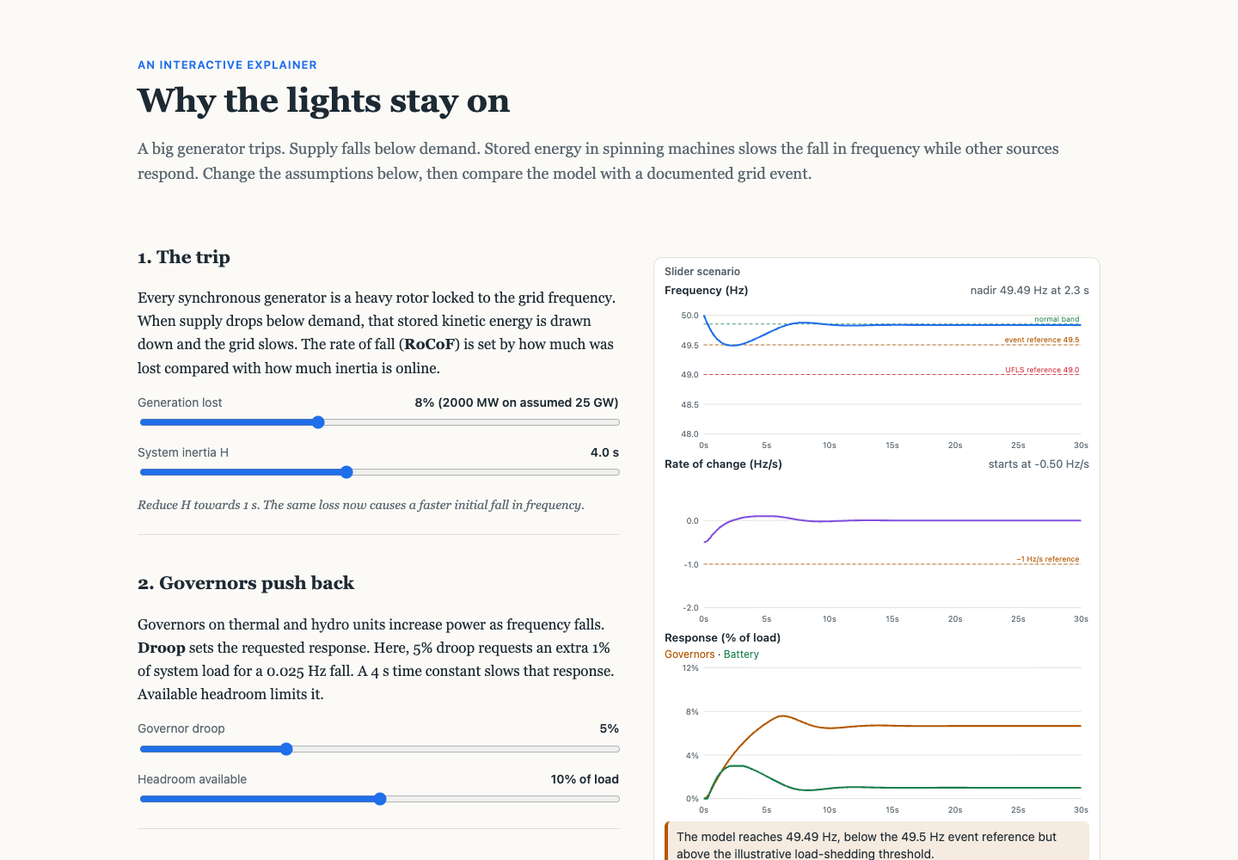
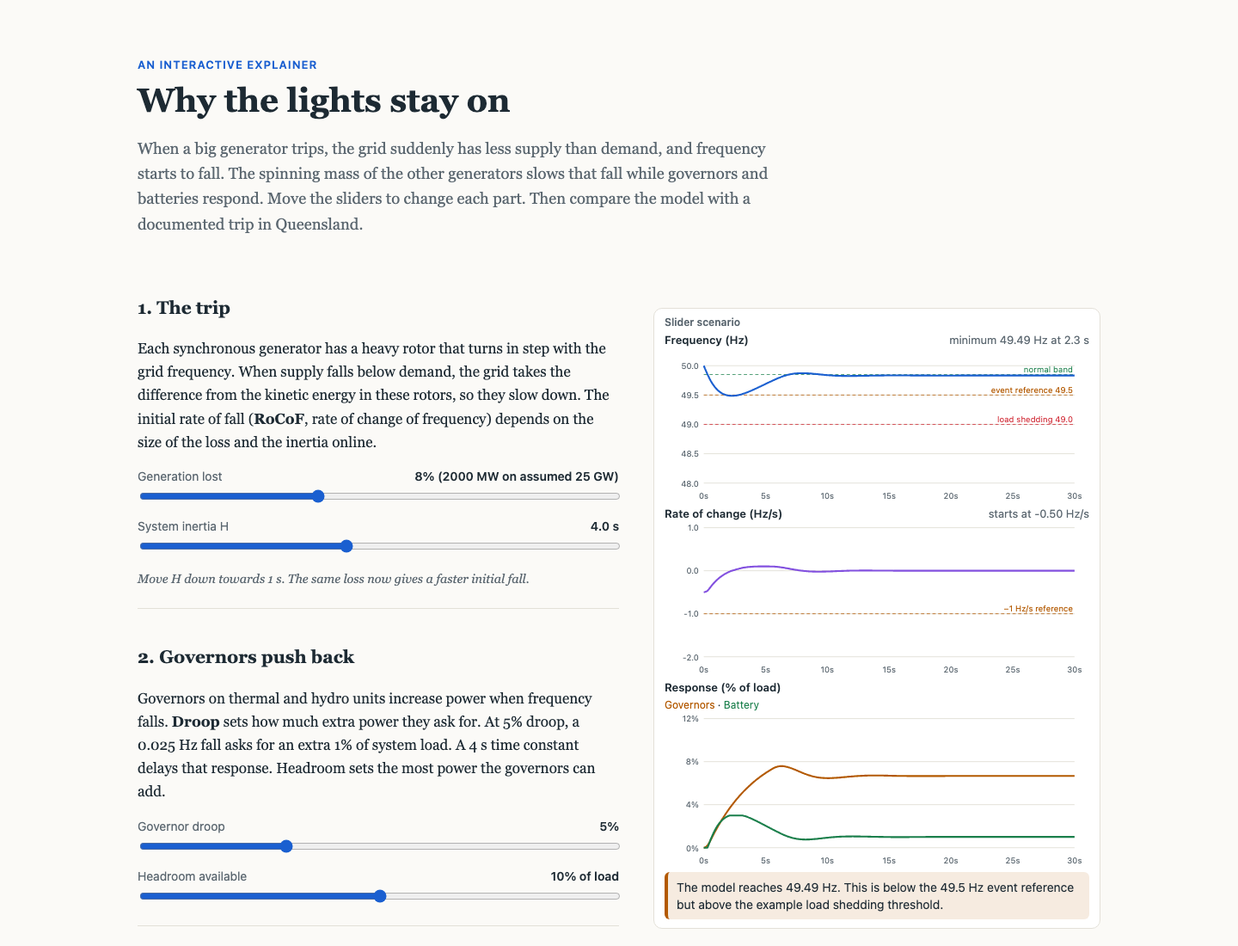
Rewrite README and page copy in plain technical English
- Rewrite the explainer text, verdicts, chart labels and meta
  description in short, active sentences with no dashes. Sourced values
  and the AEMO citation are unchanged.
- Restructure the README: summary, hero image, quick start, the Kogan
  Creek comparison, model, limits, tests and code layout.
- Refresh the hero and comparison images from the current page.
- Move dated session checks and a local network note out of the README
  and research note; they were for the owner, not readers.
- Add a package description.

diff --git a/index.html b/index.html
@@ -5,14 +5,14 @@
   <link rel="icon" href="data:," />
   <meta name="viewport" content="width=device-width, initial-scale=1" />
   <title>Why the lights stay on</title>
-  <meta name="description" content="What happens to grid frequency when a big generator trips? Drag the sliders and find out." />
+  <meta name="description" content="Move the sliders to see how inertia, governors and batteries hold up grid frequency after a big generator trips. Includes a sourced comparison with the 2019 Kogan Creek trip." />
   <link rel="stylesheet" href="/src/style.css" />
 </head>
 <body>
   <header class="hero">
     <p class="kicker">An interactive explainer</p>
     <h1>Why the lights stay on</h1>
-    <p class="lede">A big generator trips. Supply falls below demand. Stored energy in spinning machines slows the fall in frequency while other sources respond. Change the assumptions below, then compare the model with a documented grid event.</p>
+    <p class="lede">When a big generator trips, the grid suddenly has less supply than demand, and frequency starts to fall. The spinning mass of the other generators slows that fall while governors and batteries respond. Move the sliders to change each part. Then compare the model with a documented trip in Queensland.</p>
   </header>
 
   <main>
@@ -20,26 +20,25 @@
   <div class="steps">
     <section class="step">
       <h2>1. The trip</h2>
-      <p>Every synchronous generator is a heavy rotor locked to the grid frequency. When supply drops below demand, that stored kinetic energy is drawn down and the grid slows. The rate of fall (<b>RoCoF</b>) is set by how much was lost compared with how much inertia is online.</p>
+      <p>Each synchronous generator has a heavy rotor that turns in step with the grid frequency. When supply falls below demand, the grid takes the difference from the kinetic energy in these rotors, so they slow down. The initial rate of fall (<b>RoCoF</b>, rate of change of frequency) depends on the size of the loss and the inertia online.</p>
       <label class="ctl" for="lossPu"><span>Generation lost <output data-for="lossPu"></output></span><input id="lossPu" type="range" min="1" max="20" step="0.5" value="8" /></label>
       <label class="ctl" for="H"><span>System inertia H <output data-for="H"></output></span><input id="H" type="range" min="1" max="8" step="0.1" value="4" /></label>
-      <p class="hint">Reduce H towards 1 s. The same loss now causes a faster initial fall in frequency.</p>
-  </section>
+      <p class="hint">Move H down towards 1 s. The same loss now gives a faster initial fall.</p>
+    </section>
 
     <section class="step">
       <h2>2. Governors push back</h2>
-      <p>Governors on thermal and hydro units increase power as frequency falls. <b>Droop</b> sets the requested response. Here, 5% droop requests an extra 1% of system load for a 0.025 Hz fall. A 4 s time constant slows that response. Available headroom limits it.</p>
+      <p>Governors on thermal and hydro units increase power when frequency falls. <b>Droop</b> sets how much extra power they ask for. At 5% droop, a 0.025 Hz fall asks for an extra 1% of system load. A 4 s time constant delays that response. Headroom sets the most power the governors can add.</p>
       <label class="ctl" for="droop"><span>Governor droop <output data-for="droop"></output></span><input id="droop" type="range" min="2" max="12" step="0.5" value="5" /></label>
       <label class="ctl" for="governorHeadroom"><span>Headroom available <output data-for="governorHeadroom"></output></span><input id="governorHeadroom" type="range" min="0" max="20" step="1" value="10" /></label>
-  </section>
+    </section>
 
     <section class="step">
-      <h2>3. Batteries, fast</h2>
-      <p>A battery can respond faster than a turbine. Here, it uses delayed frequency feedback and reaches full output at a 0.5 Hz deviation. Reduce the delay or increase the power limit to see how the lowest frequency changes. “Battery size” means power, not stored energy.</p>
+      <h2>3. Batteries act fast</h2>
+      <p>A battery can respond faster than a turbine. In this model, the battery measures frequency after a short delay. Its output grows with the fall and reaches full power at a 0.5 Hz deviation. Make the delay shorter or the battery larger, then watch the lowest frequency change. “Battery size” is a power limit, not stored energy.</p>
       <label class="ctl" for="batterySize"><span>Battery size <output data-for="batterySize"></output></span><input id="batterySize" type="range" min="0" max="10" step="0.5" value="3" /></label>
       <label class="ctl" for="batteryDelay"><span>Response delay <output data-for="batteryDelay"></output></span><input id="batteryDelay" type="range" min="0.05" max="3" step="0.05" value="0.3" /></label>
-  </section>
-
+    </section>
   </div>
 
   <aside class="dash">
@@ -57,14 +56,14 @@
     <div class="event-intro">
       <p class="kicker">Evidence and assumptions</p>
       <h2 id="event-heading">4. One real trip, not a replay</h2>
-      <p>On 9 October 2019, Kogan Creek in Queensland tripped from <b>748 MW</b>. AEMO reports that frequency fell to <b>49.61 Hz</b>. The South Australia virtual power plant detected the fall and injected power to help recovery.</p>
-      <p><a id="event-source" href="https://arena.gov.au/assets/2020/03/aemo-virtual-power-plant-demonstration-knowledge-sharing-report-1.pdf#page=7">Source: AEMO, Virtual Power Plant Demonstration, report #1, section 2.1.1, page 7 (PDF)</a>.</p>
-      <p>For a fixed comparison, use the same 748 MW loss on an <b>assumed 25 GW system base</b>: 2.992% of load. Keep H = 4 s, droop = 5%, governor time constant = 4 s, headroom = 10%, and load damping = 1. Start at 50 Hz. Omit the battery because the report does not give an aggregate battery capacity for this model.</p>
+      <p>On 9 October 2019, the largest generating unit in the National Electricity Market tripped from <b>748 MW</b>. The unit is at Kogan Creek in Queensland. AEMO reports that frequency fell to <b>49.61 Hz</b>. The South Australia virtual power plant (VPP) detected the fall and injected power to help recovery.</p>
+      <p><a id="event-source" href="https://arena.gov.au/assets/2020/03/aemo-virtual-power-plant-demonstration-knowledge-sharing-report-1.pdf#page=7">Source: AEMO, Virtual Power Plant Demonstration, knowledge sharing report #1, section 2.1.1, page 7 (PDF)</a>.</p>
+      <p>The fixed comparison below uses the same 748 MW loss on an <b>assumed 25 GW system base</b>. That is 2.992% of load. The other inputs are assumptions too: H = 4 s, droop 5%, governor time constant 4 s, headroom 10% and load damping 1. The model starts at 50 Hz. It has no battery, because the report does not give a total battery power for this model.</p>
     </div>
     <div class="event-panel">
       <figure class="event-figure">
         <svg id="chart-event" role="img" aria-label="Fixed model frequency trace with a reference line at AEMO’s reported 49.61 Hz minimum"></svg>
-        <figcaption>Blue: fixed model trace. Dashed: reported event minimum, not a measured time series. This comparison does not change with the sliders.</figcaption>
+        <figcaption>Blue line: the fixed model trace. Dashed line: the minimum that AEMO reports. It is one value, not a measured time series. The sliders do not change this chart.</figcaption>
       </figure>
       <dl class="event-results">
         <div><dt>Reported event minimum</dt><dd>49.61 Hz</dd></div>
@@ -76,19 +75,19 @@
     <div class="event-notes">
       <h3>Where the model differs</h3>
       <ul>
-        <li><b>One frequency.</b> The model has no transmission network, regional oscillations, voltage, or separate machines. It cannot reproduce local measurements or network constraints.</li>
-        <li><b>Assumed response.</b> Real units have different inertia, governor settings, deadbands, and available reserves. The system base and response constants above are not measured event inputs.</li>
-        <li><b>No event battery response.</b> AEMO documents a VPP response. This comparison omits it. Adding a guessed battery size would not establish its share of the system response.</li>
-        <li><b>No restoration or protection action.</b> The model has no secondary frequency control, battery energy limit, or load-shedding logic. Crossing a threshold only changes the warning. The model can settle below 50 Hz.</li>
+        <li><b>One frequency.</b> The model gives one frequency for the whole system. It has no transmission network, regional oscillations, voltage or separate machines. It cannot reproduce local measurements or network constraints.</li>
+        <li><b>Assumed response.</b> Real units have different inertia, governor settings, deadbands and available reserves. The system base and the response constants above are assumptions, not event measurements.</li>
+        <li><b>No event battery response.</b> AEMO documents a VPP response. This comparison leaves it out. A guessed battery size would not show the real share of that response.</li>
+        <li><b>No restoration or protection.</b> The model has no secondary frequency control, no battery energy limit and no load shedding. When frequency crosses a threshold, only the warning text changes. The model can settle below 50 Hz.</li>
       </ul>
-      <p><b>The engineering conclusion:</b> the model explains how power imbalance, inertia, and response affect frequency. Its higher minimum does not validate the event response. Matching one number would not prove the timing or cause. A reconstruction needs measured system conditions, response data, and a frequency time series.</p>
+      <p><b>What this shows.</b> The model explains how power imbalance, inertia and response affect frequency. In this case its minimum is higher than the real one, so it does not validate the event response. A match on one number would not prove the timing or the cause either. A reconstruction needs measured system conditions, response data and a frequency time series.</p>
     </div>
   </section>
   </main>
 
   <footer>
-    <p><b>Limits.</b> A single-bus aggregate model, not an operational tool. The chart uses 49.85 Hz as the lower normal-band reference, 49.5 Hz as a single-generation-event reference, and 49.0 Hz as an illustrative load-shedding threshold. Actual limits and protection settings depend on the region and event. The model does not shed load or predict customer outages.</p>
-    <p><a href="https://www.aemc.gov.au/market-reviews-advice/review-frequency-operating-standard-2022">Frequency operating standard: AEMC review</a> · <a href="https://github.com/Guinerve/why-the-lights-stay-on">Source code and model tests</a></p>
+    <p><b>Limits.</b> This model treats the whole grid as one bus with one frequency. It is for teaching, not for operations. The charts use three reference lines: 49.85 Hz for the bottom of the normal band, 49.5 Hz for a single generation event and 49.0 Hz as an example load shedding threshold. Real limits and protection settings depend on the region and the event. The model does not shed load or predict customer outages.</p>
+    <p><a href="https://www.aemc.gov.au/market-reviews-advice/review-frequency-operating-standard-2022">AEMC review of the frequency operating standard</a> · <a href="https://github.com/Guinerve/why-the-lights-stay-on">Source code and model tests</a></p>
   </footer>
   <script type="module" src="/src/main.ts"></script>
 </body>

diff --git a/src/main.ts b/src/main.ts
@@ -47,7 +47,7 @@ function render(): void {
     hlines: [
       { y: NORMAL_LOW_HZ, color: "var(--ok)", label: "normal band" },
       { y: CONTINGENCY_LOW_HZ, color: "var(--warn)", label: "event reference 49.5" },
-      { y: UFLS_HZ, color: "var(--bad)", label: "UFLS reference 49.0" },
+      { y: UFLS_HZ, color: "var(--bad)", label: "load shedding 49.0" },
     ],
   });
   const rAxis = niceTicks(rMin, rMax);
@@ -69,20 +69,20 @@ function render(): void {
     yFormat: (v) => `${v.toFixed(0)}%`,
   });
 
-  $("#nadir").textContent = `nadir ${s.nadir.toFixed(2)} Hz at ${s.nadirT.toFixed(1)} s`;
+  $("#nadir").textContent = `minimum ${s.nadir.toFixed(2)} Hz at ${s.nadirT.toFixed(1)} s`;
   $("#rocof").textContent = `starts at ${s.initialRocof.toFixed(2)} Hz/s`;
 
   const v = $("#verdict");
   v.className = "verdict";
   if (s.uflsTriggered) {
     v.classList.add("bad");
-    v.textContent = `The model reaches ${s.nadir.toFixed(2)} Hz, at or below the illustrative 49.0 Hz load-shedding threshold. No load is shed in this simulation.`;
+    v.textContent = `The model reaches ${s.nadir.toFixed(2)} Hz. This is at or below the example 49.0 Hz load shedding threshold. The simulation does not shed any load.`;
   } else if (s.nadir < CONTINGENCY_LOW_HZ) {
     v.classList.add("warn");
-    v.textContent = `The model reaches ${s.nadir.toFixed(2)} Hz, below the 49.5 Hz event reference but above the illustrative load-shedding threshold.`;
+    v.textContent = `The model reaches ${s.nadir.toFixed(2)} Hz. This is below the 49.5 Hz event reference but above the example load shedding threshold.`;
   } else {
     v.classList.add("ok");
-    v.textContent = `The model minimum is ${s.nadir.toFixed(2)} Hz, above the 49.5 Hz event reference. This frequency-only model cannot predict customer outages.`;
+    v.textContent = `The model minimum is ${s.nadir.toFixed(2)} Hz, above the 49.5 Hz event reference. This model shows frequency only, so it cannot predict customer outages.`;
   }
 }
 
@@ -96,7 +96,7 @@ function renderEvent(): void {
   });
   $("#event-nadir").textContent = `${s.nadir.toFixed(2)} Hz at ${s.nadirT.toFixed(2)} s`;
   $("#event-gap").textContent = `+${(s.nadir - KOGAN_CREEK.reportedLowHz).toFixed(2)} Hz`;
-  $("#event-result").textContent = `The model falls, reaches a minimum, then partly recovers. Its minimum is ${(s.nadir - KOGAN_CREEK.reportedLowHz).toFixed(2)} Hz higher than the reported event minimum. The model’s ${s.nadirT.toFixed(2)} s timing is a calculated result, not an event measurement.`;
+  $("#event-result").textContent = `The model falls, reaches a minimum, then partly recovers. Its minimum is ${(s.nadir - KOGAN_CREEK.reportedLowHz).toFixed(2)} Hz higher than the reported minimum. The model reaches its minimum at ${s.nadirT.toFixed(2)} s. That time is a calculated result, not an event measurement.`;
   $<HTMLAnchorElement>("#event-source").href = KOGAN_CREEK.sourceUrl;
 }
 

diff --git a/README.md b/README.md
@@ -2,97 +2,118 @@
 
 [![CI](https://github.com/Guinerve/why-the-lights-stay-on/actions/workflows/ci.yml/badge.svg)](https://github.com/Guinerve/why-the-lights-stay-on/actions/workflows/ci.yml)
 
-An interactive explanation of grid frequency after a generator trip. Change inertia, generation loss, governor response, and battery response. Then compare one fixed scenario with a documented event.
+An interactive explainer of what happens to grid frequency in the seconds after a big generator trips.
 
-![Frequency charts beside the model assumptions](assets/screenshot.png)
+![The explainer page: prose and sliders on the left, frequency, RoCoF and response charts on the right](assets/screenshot.png)
 
-## Run
+When a large generator trips, the grid suddenly has less supply than demand, and frequency falls. Inertia slows the fall at first. Governors and batteries then add power and stop it. I built this page to show how each of those parts changes the result. You move six sliders and three charts update at once.
 
-Use Node.js 22 (22.12 or later) or Node.js 24.
+The page also compares one fixed model run with a real event: the Kogan Creek trip in Queensland on 9 October 2019. It shows where the model and the evidence disagree, and by how much.
+
+## Quick start
+
+Use Node.js 22 (22.12 or later), Node.js 24, or Node.js 26 or later.
 
 ```bash
 npm ci
 npm run dev
 ```
 
-Open `http://localhost:5191`. The server binds to `0.0.0.0`, so other Tailscale devices can use `http://<tailscale-ip>:5191`. Port 5191 is fixed. The server fails if the port is occupied.
+Open `http://localhost:5191`. The dev server listens on all network interfaces, so other devices on your network can use `http://<your-ip>:5191`. Port 5191 is fixed. If another program uses it, the server stops with an error.
+
+To build and serve the static site:
 
 ```bash
-npm test          # 14 tests
-npm run build    # TypeScript check and production build
-npm run preview  # Serve the build on port 5191; stop the dev server first
+npm run build     # type check, then build to dist/
+npm run preview   # serve dist/ on port 5191 (stop the dev server first)
 ```
 
-The build is a static site in `dist/`. Relative asset paths support deployment under a subdirectory. No API keys or backend are needed.
+The build is a static site with relative asset paths, so it works from a subdirectory. It needs no backend and no API keys.
 
-## A documented event, not a replay
+## The Kogan Creek comparison
 
-On **9 October 2019**, Kogan Creek in Queensland tripped from **748 MW**. AEMO reports that frequency fell to **49.61 Hz**. The South Australia virtual power plant detected the fall and injected power to help recovery.
+On **9 October 2019**, the generating unit at Kogan Creek in Queensland tripped from **748 MW**. AEMO reports that frequency fell to **49.61 Hz**. The South Australia virtual power plant detected the fall and injected power to help recovery.
 
 Source: [AEMO, *Virtual Power Plant Demonstration*, knowledge sharing report #1, section 2.1.1, page 7](https://arena.gov.au/assets/2020/03/aemo-virtual-power-plant-demonstration-knowledge-sharing-report-1.pdf#page=7).
 
-The comparison uses the reported loss, not fitted response parameters:
+Only the size of the loss comes from the event. I did not fit any response parameter to the reported minimum.
 
-| Quantity | Fixed model input or result | Evidence status |
+| Quantity | Model input or result | Where it comes from |
 | --- | --- | --- |
 | Generation lost | 748 MW | Reported by AEMO |
 | System load base | 25,000 MW | Assumed, not event data |
-| Per-unit loss | 0.02992 (2.992%) | Calculated from loss and assumed base |
+| Loss per unit of load | 0.02992 (2.992%) | Calculated from the loss and the assumed base |
 | Inertia H | 4 s | Assumed |
 | Governor droop / time constant / headroom | 5% / 4 s / 10% | Assumed |
 | Load damping | 1 | Assumed |
-| Battery power | 0 | Omitted; aggregate event capacity is not established by this source |
+| Battery power | 0 | Left out, because the source does not give a total event capacity |
 | Initial frequency | 50 Hz | Assumed |
-| Model minimum | 49.78 Hz at 2.09 s | Calculated over 30 s at a 0.01 s step |
-| Reported event minimum | 49.61 Hz | Reported by AEMO; no event timing claim |
-| Model minus reported minimum | +0.17 Hz | Calculated, before rounding |
+| Model minimum | 49.78 Hz at 2.09 s | Calculated over 30 s with a 0.01 s step |
+| Reported event minimum | 49.61 Hz | Reported by AEMO, with no claim about timing |
+| Model minus reported minimum | +0.17 Hz | Calculated before rounding |
 
-The model understates the frequency fall. Its chart shows the calculated trace and a dashed line at the reported minimum. **The line is not a measured time series.** The comparison stays fixed when the six existing sliders change. No controls were added.
+The model understates the frequency fall. Its chart shows the calculated trace and a dashed line at the reported minimum. **The dashed line is one reported value, not a measured time series.** The sliders do not change this comparison.
 
-![Fixed model trace and the reported minimum reference](assets/event-comparison.png)
+![Fixed model trace with a dashed line at the reported 49.61 Hz minimum, and the three result values](assets/event-comparison.png)
 
-This is an engineering communication example: separate evidence from assumptions, show the error, and state what the result cannot prove. Matching one minimum would not validate the timing or cause. See [the source notes and model differences](research/2026-10-13-kogan-creek-comparison.md).
+I kept the mismatch on purpose. The page keeps the evidence apart from the assumptions and shows the error openly. A match on one minimum would not confirm the timing or the cause. The [research note](research/2026-10-13-kogan-creek-comparison.md) has the source quote, the full calculation and the model differences.
 
-## Model and limits
+## How the model works
 
-The single-bus swing equation uses powers per unit of pre-event system load:
+The model is the swing equation for one bus. Powers are per unit of system load before the event:
 
 ```text
 2H/f₀ · dΔf/dt = −loss + governor + battery − D·Δf/f₀
 ```
 
-The governor follows a droop target with a first-order lag and a headroom limit. The battery uses delayed frequency feedback. It reaches its power limit at a 0.5 Hz deviation. The integrator uses fixed-step RK4 for frequency and governor state. Battery output is held constant within each integration step; delay is rounded to whole steps.
+- **Governor.** It follows a droop target through a first order lag. A headroom limit caps its output.
+- **Battery.** It responds to the frequency it measured one delay earlier. Its output is proportional to that deviation and reaches its power limit at 0.5 Hz.
+- **Integration.** Fixed step RK4 integrates frequency and governor state. Battery output stays constant within each step. The delay is rounded to whole steps.
 
-The model has no transmission network, voltage, separate machines, governor deadbands, secondary frequency control, battery energy limit, or protection action. It can settle below 50 Hz. The battery can absorb power if delayed frequency feedback is above 50 Hz. Power and frequency axes expand to show extreme slider results.
+The charts draw three reference lines. 49.85 Hz marks the bottom of the normal band. 49.5 Hz is a reference for a single generation event. 49.0 Hz is an example load shedding threshold. Real requirements and protection settings depend on the region and the event. See the [AEMC frequency operating standard review](https://www.aemc.gov.au/market-reviews-advice/review-frequency-operating-standard-2022).
 
-The chart uses 49.85 Hz as a lower normal-band reference, 49.5 Hz as a single-generation-event reference, and 49.0 Hz as an illustrative load-shedding threshold. These are not a complete compliance test. Actual requirements and protection settings depend on the region and event. See the [AEMC frequency operating standard review](https://www.aemc.gov.au/market-reviews-advice/review-frequency-operating-standard-2022).
+## Limits
 
-Crossing 49.0 Hz changes the warning only. The simulation does not shed load or predict customer outages. **Educational, not an operational tool.**
+- The model has no transmission network, voltage, separate machines, governor deadbands, secondary frequency control, battery energy limit or protection action.
+- Frequency can settle below 50 Hz, because nothing restores it.
+- The battery can absorb power if its delayed frequency reading is above 50 Hz.
+- Crossing 49.0 Hz changes only the warning text. The model does not shed load or predict customer outages.
+- The chart axes expand to fit extreme slider settings.
 
-## Verification
+This is a teaching tool, not an operational tool.
 
-`npm test` checks:
+## Tests
 
-- Analytic linear decline without governor response, damping, or battery response.
-- Steady-state droop balance, with and without load damping.
-- The effects of inertia, battery power, and battery delay.
-- Nadir stability when the integration step is halved.
-- Delayed feedback, response power limits, and the absence of load-shedding action.
-- Finite traces at all 64 corners of the six slider ranges.
-- Event loss conversion, the numerical mismatch, and independence from slider changes.
+```bash
+npm test          # 17 tests
+npm run build     # TypeScript check and production build
+```
 
-CI runs the tests and the TypeScript/build check on pushes and pull requests. These checks verify the implementation and selected equations. **They do not validate the model against the real grid.**
+The tests check:
 
-Browser checks cover the fixed comparison, slider updates, keyboard use, chart expansion, console errors, and horizontal overflow. Wide screens use a sticky chart column. Narrow screens use a capped chart panel with rate-of-change and power charts behind “More charts”.
+- the linear fall in frequency with no governor, damping or battery, against the analytic result;
+- the steady state droop balance, with and without load damping;
+- the effect of inertia, battery power and battery delay;
+- a stable minimum frequency when the time step is halved;
+- the battery delay, the power limits and the absence of any load shedding action;
+- finite traces at all 64 corners of the six slider ranges;
+- the Kogan Creek loss conversion, the mismatch and its independence from the sliders;
+- round axis ticks whose labels match their gridlines.
 
-Checked on 13 October 2026 in Chromium through Playwright: no horizontal overflow at 320, 390, 768, 1024, or 1440 px wide, or at 844 × 390 in landscape. All 64 slider-range corners rendered finite chart paths. The fixed comparison stayed unchanged. Light and dark layouts were inspected. No console warnings or errors were reported. `npm audit` reported zero vulnerabilities.
+CI runs the tests and the build on every push and pull request. These checks confirm that the code does what it says. **They do not validate the model against the real grid.**
 
-## Source map
+## Code layout
 
-- `src/sim.ts`: model, integration, and summary metrics.
-- `src/chart.ts`: SVG chart rendering.
-- `src/main.ts`: slider bindings and the fixed comparison.
-- `src/event.ts`: reported values, source URL, and assumed comparison inputs.
-- `index.html`: explanation, source citation, and model limits.
+| File | What it holds |
+| --- | --- |
+| `src/sim.ts` | Model, integration and summary values |
+| `src/event.ts` | Reported Kogan Creek values, source URL and assumed inputs |
+| `src/chart.ts` | SVG chart drawing and axis ticks |
+| `src/main.ts` | Slider bindings and the fixed comparison |
+| `index.html` | Explainer text, source citation and limits |
 
-TypeScript, Vite, SVG, and Vitest. [MIT license](LICENSE).
+Built with TypeScript, Vite, SVG and Vitest. No chart library.
+
+## Licence
+
+[MIT](LICENSE)

diff --git a/research/2026-10-13-kogan-creek-comparison.md b/research/2026-10-13-kogan-creek-comparison.md
@@ -2,34 +2,34 @@
 
 ## Finding
 
-The 9 October 2019 generator trip gives this explainer a specific evidence check. With the documented 748 MW loss on an assumed 25 GW system base, the fixed model reaches 49.7766 Hz. AEMO reports a fall to 49.61 Hz. The model minimum is 0.1666 Hz higher.
+The generator trip on 9 October 2019 gives this explainer a specific check against evidence. I apply the documented 748 MW loss to an assumed 25 GW system base. The fixed model then reaches 49.7766 Hz. AEMO reports a fall to 49.61 Hz. The model minimum is 0.1666 Hz higher.
 
-This difference is not a fitted error bound. It is one comparison under stated assumptions. It does not establish which missing mechanism caused the difference.
+This difference is not a fitted error bound. It is one comparison under stated assumptions. It does not show which missing mechanism causes the difference.
 
 ## Primary evidence
 
-Source: AEMO, *Virtual Power Plant Demonstration*, knowledge sharing report #1, March 2020, section 2.1.1, page 7, Figure 1. The downloaded copy lists a revenue-section revision dated 17 July 2020. Accessed 13 October 2026. [AEMO report hosted by ARENA (PDF)](https://arena.gov.au/assets/2020/03/aemo-virtual-power-plant-demonstration-knowledge-sharing-report-1.pdf#page=7).
+Source: AEMO, *Virtual Power Plant Demonstration*, knowledge sharing report #1, March 2020, section 2.1.1, page 7, Figure 1. The downloaded copy lists a revision to the revenue section dated 17 July 2020. Accessed 13 October 2026. [AEMO report hosted by ARENA (PDF)](https://arena.gov.au/assets/2020/03/aemo-virtual-power-plant-demonstration-knowledge-sharing-report-1.pdf#page=7).
 
 The report states:
 
 > During this event, the largest generating unit (at Kogan Creek in Queensland) in the National Electricity Market (NEM) tripped off unexpectedly from 748 MW and power system frequency immediately dropped to 49.61 Hz, which is below the normal operating range.
 
-It then states that the SA VPP detected the excursion and injected power to help recovery. Figure 1 shows that VPP response alongside frequency. The report does not establish the full set of aggregate model inputs used here. No frequency samples were digitised. No measured time-to-minimum or initial RoCoF is claimed in the explainer.
+The report then states that the SA VPP detected the excursion and injected power to help recovery. Figure 1 shows that VPP response together with frequency. The report does not give the full set of aggregate inputs that this model uses. I did not digitise any frequency samples. The explainer makes no claim about the measured time to minimum or the measured initial RoCoF.
 
 ## Calculation
 
-Only the loss in MW is an event input. The following are teaching assumptions:
+Only the loss in MW comes from the event. All other inputs are teaching assumptions:
 
-- Pre-event system load base: 25,000 MW.
+- System load before the event: 25,000 MW.
 - Initial frequency: 50 Hz.
 - System inertia H: 4 s.
-- Governor droop: 5%; time constant: 4 s; headroom: 10% of load.
-- Load damping: 1 per-unit load per per-unit frequency.
-- Battery power: zero. This omits the documented VPP response rather than guessing an aggregate capacity.
+- Governor droop 5%, time constant 4 s, headroom 10% of load.
+- Load damping: 1 per unit load per per unit frequency.
+- Battery power: zero. This leaves out the documented VPP response instead of guessing its total capacity.
 
-The per-unit loss is `748 / 25000 = 0.02992`. The initial model RoCoF is `−0.02992 × 50 / (2 × 4) = −0.187 Hz/s`.
+The per unit loss is `748 / 25000 = 0.02992`. The initial model RoCoF is `−0.02992 × 50 / (2 × 4) = −0.187 Hz/s`.
 
-`simulate(EVENT_PARAMS, 30)` uses the default 0.01 s step. `summarise()` gives:
+`simulate(EVENT_PARAMS, 30)` uses the default 0.01 s step. `summarise()` gives these values:
 
 | Calculated quantity | Value |
 | --- | --- |
@@ -38,30 +38,20 @@ The per-unit loss is `748 / 25000 = 0.02992`. The initial model RoCoF is `−0.0
 | Frequency at 30 s | 49.9295747 Hz |
 | Minimum minus reported low frequency | +0.1666265 Hz |
 
-The displayed values are 49.78 Hz and +0.17 Hz. The difference is calculated before rounding. These values are reproducible with `npm test -- src/event.test.ts`. Definitions are in `src/event.ts`; equations are in `src/sim.ts`.
+The page shows 49.78 Hz and +0.17 Hz. The difference is calculated before rounding. `npm test -- src/event.test.ts` checks these values. `src/event.ts` holds the event inputs and `src/sim.ts` holds the equations.
 
 ## Where the model differs
 
-The model treats the system as one frequency and one aggregate inertia. It cannot show regional oscillations, transmission constraints, voltage, or individual machines. It starts exactly at 50 Hz and applies one instant loss.
+The model treats the system as one frequency with one aggregate inertia. It cannot show regional oscillations, transmission constraints, voltage or individual machines. It starts at exactly 50 Hz and applies one instant loss.
 
-One first-order governor represents all responding units. The model has no deadband, unit-specific controls, or measured reserve availability. Droop is on the assumed system-load base, not on each unit’s rating.
+One governor with a first order lag stands in for all responding units. The model has no deadband, no controls for each unit and no measured reserve availability. Droop is on the assumed system load base, not on the rating of each unit.
 
-The fixed comparison omits batteries. The interactive battery block is a delayed proportional power response, not the documented VPP control system. It has no state of charge or energy limit. Its feedback delay is rounded to integration steps.
+The fixed comparison has no batteries. The battery block in the interactive part is a delayed proportional power response. It is not the documented VPP control system. It has no state of charge or energy limit. Its feedback delay is rounded to whole integration steps.
 
-The model has no secondary control to restore 50 Hz and no protection action. The 49.0 Hz warning is illustrative. It does not disconnect customers or change the load. Frequency references are not a complete NEM compliance assessment; see the [AEMC frequency operating standard review](https://www.aemc.gov.au/market-reviews-advice/review-frequency-operating-standard-2022).
+The model has no secondary control to restore 50 Hz and no protection action. The 49.0 Hz warning is an example. It does not disconnect customers or change the load. The frequency reference lines are not a complete NEM compliance check. See the [AEMC frequency operating standard review](https://www.aemc.gov.au/market-reviews-advice/review-frequency-operating-standard-2022).
 
-## Communication decision
+## How the page presents it
 
-Use a fixed model trace and a horizontal line at the reported minimum. Do not draw an invented measured curve, label this a replay, or tune inertia to force a match. Keep the comparison independent of the sliders so readers do not confuse a changed teaching scenario with the event.
+The page shows a fixed model trace and a horizontal line at the reported minimum. It does not draw an invented measured curve, call the trace a replay or tune inertia to force a match. The comparison does not follow the sliders, so readers do not confuse a changed teaching scenario with the event.
 
-The defensible conclusion is limited: the model explains the direction of the response, but this assumed scenario understates the observed frequency fall. Event reconstruction would need measured system conditions, unit and battery response data, and a frequency time series.
-
-## Implementation checks
-
-On 13 October 2026, all 14 tests passed. The TypeScript check and production build passed. `npm audit` reported zero vulnerabilities.
-
-The running app was checked with Playwright in Chromium. All 64 corners of the six slider ranges produced finite chart paths. The event trace stayed fixed. Keyboard input changed inertia from 4.5 s to 4.6 s and updated the interactive minimum without changing the comparison.
-
-No horizontal overflow was found at widths of 320, 390, 768, 1024, and 1440 px, or at 844 × 390 in landscape. The phone “More charts” control opened a scrollable panel capped at 32% of viewport height. Light and dark layouts were inspected. No console warnings or errors were reported.
-
-These checks establish implementation behaviour. They are not event validation.
+The conclusion is limited. The model explains the direction of the response, but this assumed scenario understates the real frequency fall. A reconstruction of the event would need measured system conditions, response data for units and batteries, and a frequency time series.
